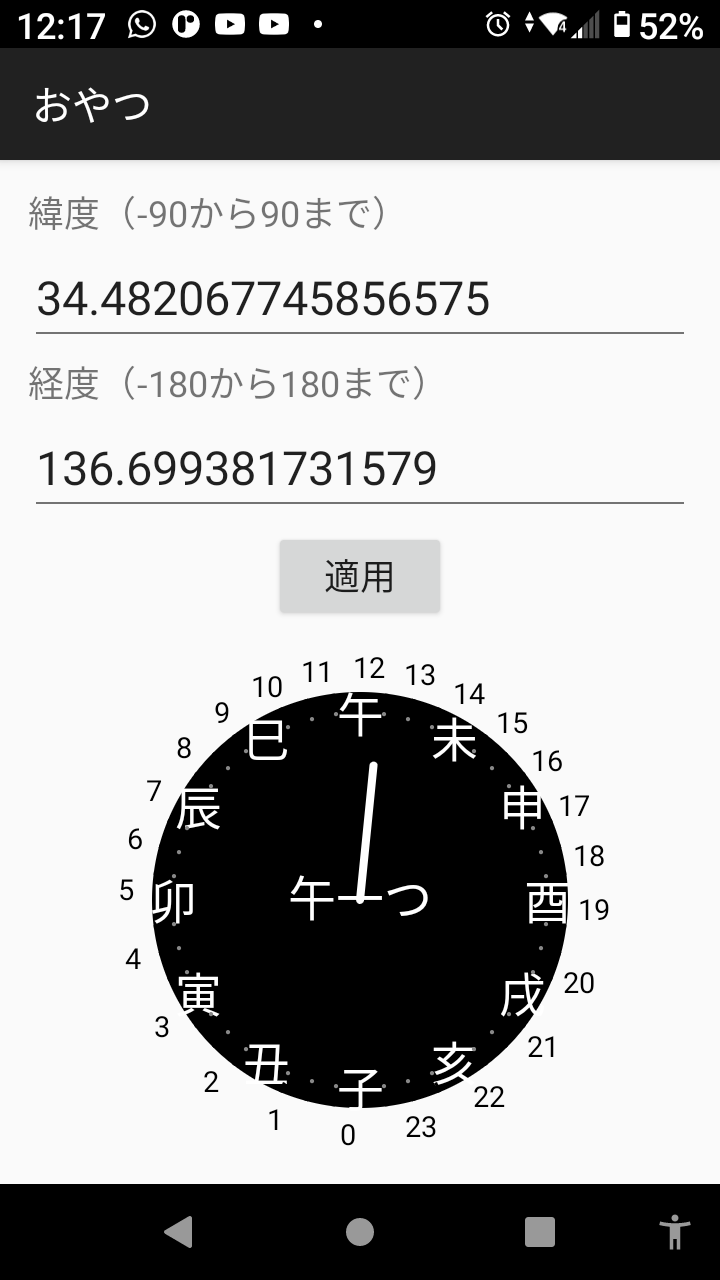
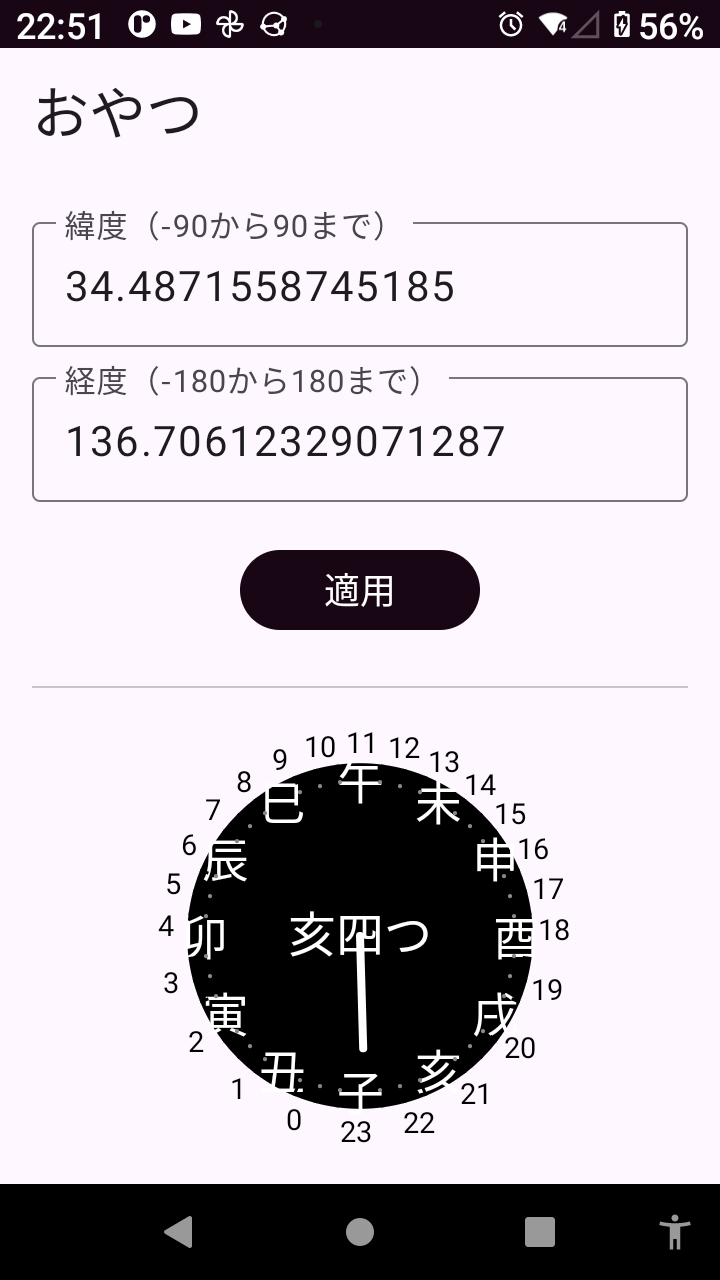
Fix layout broken at Pixle 8A, Apply Material design

diff --git a/app/src/main/java/lab/rreedd/oyatsu/JapaneseClockView.kt b/app/src/main/java/lab/rreedd/oyatsu/JapaneseClockView.kt
@@ -10,6 +10,7 @@ import android.os.Looper
 import android.util.AttributeSet
 import android.util.Log
 import android.view.View
+import androidx.core.content.ContextCompat
 import java.text.SimpleDateFormat
 import java.util.Calendar
 import java.util.Locale
@@ -95,20 +96,6 @@ class JapaneseClockView @JvmOverloads constructor(
         isAntiAlias = true
     }
 
-    /* 背景色の描画は削除するため、以下のPaintは不要
-    private val dayBackgroundPaint = Paint().apply {
-        color = Color.parseColor("#FFA500") // 橙色
-        style = Paint.Style.FILL
-        isAntiAlias = true
-    }
-
-    private val nightBackgroundPaint = Paint().apply {
-        color = Color.parseColor("#4169E1") // 藍色
-        style = Paint.Style.FILL
-        isAntiAlias = true
-    }
-    */
-
     private val dotPaint = Paint().apply {
         color = Color.GRAY // 点の色
         textSize = 20f
@@ -128,7 +115,6 @@ class JapaneseClockView @JvmOverloads constructor(
     private val japaneseTimeLabelsFullCycle = arrayOf(
         "卯", "辰", "巳", "午", "未", "申", "酉", "戌", "亥", "子", "丑", "寅"
     )
-
 
     init {
         // ビューがアタッチされたら更新を開始
@@ -184,13 +170,6 @@ class JapaneseClockView @JvmOverloads constructor(
         val currentSunrise = sunInfo["sunrise"]
         val currentSunset = sunInfo["sunset"]
 
-        /* 背景の描画は削除
-        if (currentSunrise != null && currentSunset != null) {
-            // 背景の描画 (日の出から日の入りまでを橙色、日の入りから翌日の出までを藍色)
-            drawClockBackground(canvas, centerX, centerY, radius, currentSunrise, currentSunset)
-        }
-        */
-
         // 時計の円を描画 (背景の上に描画)
         canvas.drawCircle(centerX, centerY, radius, linePaint)
 
@@ -212,64 +191,6 @@ class JapaneseClockView @JvmOverloads constructor(
             drawJapaneseHourHand(canvas, centerX, centerY, radius * 0.65f, currentTime, currentSunrise, currentSunset)
         }
     }
-
-    /* drawClockBackground 関数は削除
-    private fun drawClockBackground(canvas: Canvas, centerX: Float, centerY: Float, radius: Float, sunrise: Calendar, sunset: Calendar) {
-        val rectF = RectF(centerX - radius, centerY - radius, centerX + radius, centerY + radius)
-
-        // 日の出・日の入り時刻を24時間サイクルでのミリ秒に変換
-        // 今日の0時0分0秒のタイムスタンプを取得
-        val todayMidnight = Calendar.getInstance().apply {
-            time = sunrise.time // 日の出と同じ日付に設定 (日付部分だけ利用)
-            set(Calendar.HOUR_OF_DAY, 0)
-            set(Calendar.MINUTE, 0)
-            set(Calendar.SECOND, 0)
-            set(Calendar.MILLISECOND, 0)
-        }.timeInMillis
-
-        val sunriseMillisOfDay = sunrise.timeInMillis - todayMidnight
-        var sunsetMillisOfDay = sunset.timeInMillis - todayMidnight
-
-        // 日の入りが日の出より前の場合は、翌日の日の入りとして扱う (日付をまたぐ場合)
-        if (sunsetMillisOfDay < sunriseMillisOfDay) {
-            sunsetMillisOfDay += 24 * 3600 * 1000L
-        }
-
-        val TOTAL_MILLIS_IN_DAY = 24 * 3600 * 1000L
-
-        // システム時計の角度 (12時が0度、時計回り) を計算するヘルパー
-        // 0時/24時が下(180度)、12時が上(0度)
-        val getSystemClockAngleDegrees = { millisFromMidnight: Long ->
-            val progress = millisFromMidnight.toFloat() / TOTAL_MILLIS_IN_DAY.toFloat()
-            (progress * 360f - 180f + 360f) % 360f
-        }
-
-        val sunriseAngleDegreesClock = getSystemClockAngleDegrees(sunriseMillisOfDay)
-        val sunsetAngleDegreesClock = getSystemClockAngleDegrees(sunsetMillisOfDay)
-
-        // CanvasのdrawArcの角度に変換 (3時が0度、反時計回り)
-        // システム時計の0度（上）がCanvasの270度、システム時計の90度（右）がCanvasの0度
-        val canvasStartAngleDay = (sunriseAngleDegreesClock - 90f + 360f) % 360f
-        val canvasEndAngleDay = (sunsetAngleDegreesClock - 90f + 360f) % 360f
-
-        // 昼の掃引角度を計算
-        var sweepAngleDay = if (canvasEndAngleDay >= canvasStartAngleDay) {
-            canvasEndAngleDay - canvasStartAngleDay
-        } else {
-            360f - canvasStartAngleDay + canvasEndAngleDay
-        }
-        if (sweepAngleDay < 0) sweepAngleDay += 360f
-
-        // 昼の背景 (橙色)
-        canvas.drawArc(rectF, canvasStartAngleDay, sweepAngleDay, true, dayBackgroundPaint)
-
-        // 夜の背景 (藍色)
-        val canvasStartAngleNight = canvasEndAngleDay // 夜は昼の終わりから始まる
-        val sweepAngleNight = 360f - sweepAngleDay // 全体から昼の角度を引く
-        canvas.drawArc(rectF, canvasStartAngleNight, sweepAngleNight, true, nightBackgroundPaint)
-    }
-    */
-
 
     /**
      * 和時計の十二支ラベルと不定時法の目盛りを描画する。
@@ -554,7 +475,9 @@ class JapaneseClockView @JvmOverloads constructor(
         textPaint.textSize = 36f * 0.4f // 0.4 デフォルトのテキストサイズ
         val textRadius = outerRadius * 0.9f // 1.05 デフォルトの描画半径
 
-        textPaint.color = Color.BLACK // システム時刻の文字色を黒に
+//        textPaint.color = Color.BLACK // システム時刻の文字色を黒に
+        // Material Design 3のprimaryカラーを使用（自動的にDark/Lightモードに対応）
+        textPaint.color = ContextCompat.getColor(context, R.color.system_clock_text_color)
 
         val dayDurationMillis = sunset.timeInMillis - sunrise.timeInMillis
         val nextDaySunriseMillis = sunrise.timeInMillis + 24 * 3600 * 1000L

diff --git a/app/src/main/java/lab/rreedd/oyatsu/LocationInputActivity.kt b/app/src/main/java/lab/rreedd/oyatsu/LocationInputActivity.kt
@@ -12,6 +12,7 @@ import android.widget.Button
 import android.widget.EditText
 import android.widget.Toast
 import androidx.appcompat.app.AppCompatActivity
+import androidx.appcompat.widget.Toolbar
 import androidx.core.content.edit
 import java.util.Calendar
 import java.util.regex.Pattern
@@ -41,6 +42,8 @@ class LocationInputActivity : AppCompatActivity() {
     override fun onCreate(savedInstanceState: Bundle?) {
         super.onCreate(savedInstanceState)
         setContentView(R.layout.activity_location_input)
+        val toolbar: Toolbar = findViewById(R.id.toolbar)
+        setSupportActionBar(toolbar)
 
         editTextLatitude = findViewById(R.id.editTextLatitude)
         editTextLongitude = findViewById(R.id.editTextLongitude)
